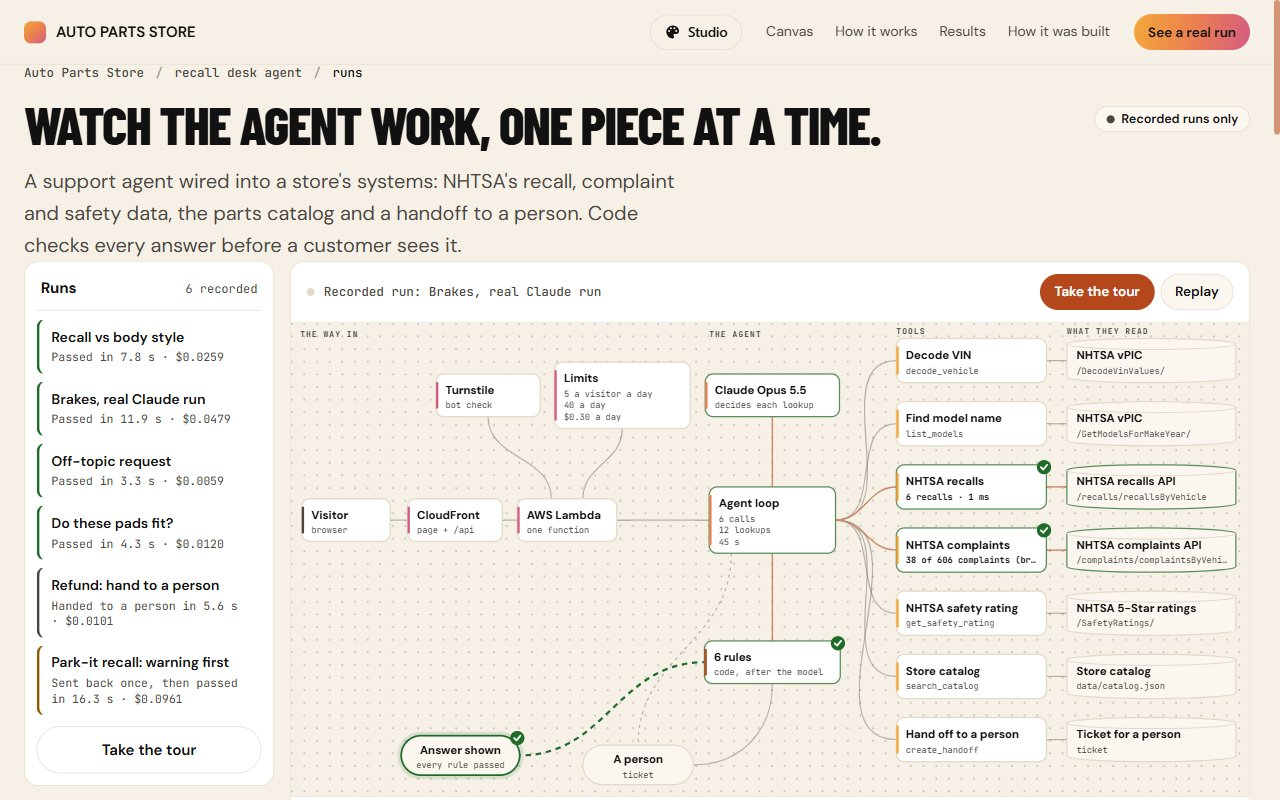
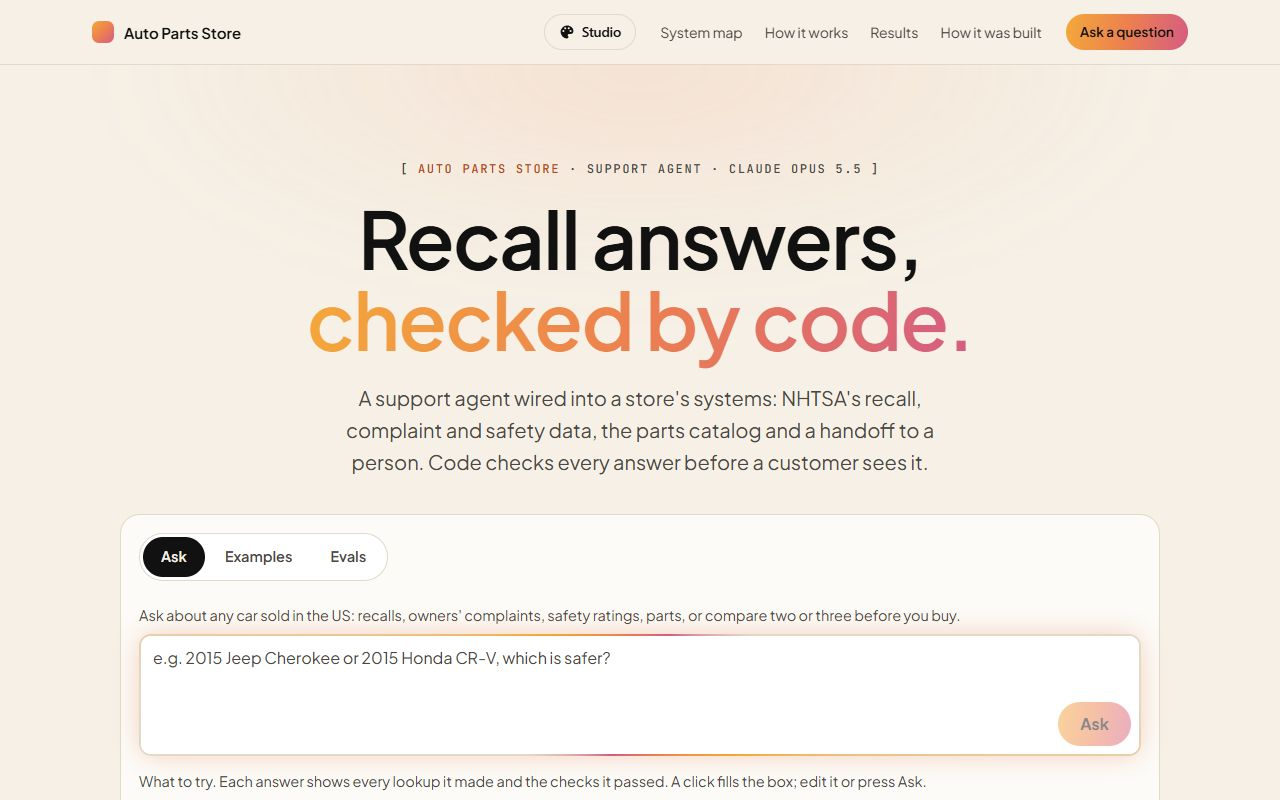
docs(readme): show the new default look and the Ask button in its box
The default became layout 01, Ask anything, on Golden hour on paper with
Plus Jakarta Sans + IBM Plex Mono, and the Ask button moved inside the
question box. The README still described and pictured layout 10 as the
default.

- The intro sentence, the hero picture and its alt text, and the Studio
  notes now name the new default.
- The 01 pair in the design table is taken from the live bare address,
  so it shows the default look; the note under the table says so. The
  other pairs still come from ?layout= links.
- docs/img/layouts: default-1280.jpeg and layout-01-1280.jpeg are the
  same 1280 x 800 capture; layout-01.jpeg is the 390 x 844 one. Both
  read Plus Jakarta Sans and neither scrolls sideways (n=2).

diff --git a/README.md b/README.md
@@ -18,10 +18,10 @@ questions each on Claude Haiku 5.5, Sonnet 5.5 and Opus 5.5, passed 44, 46 and 5
 **A system map, and a customizable page.** Every layout shows the whole system as one map that lights up, piece by
 piece, as a recorded or live answer plays, with a 16-step tour of the run where the safety rule sent the first
 answer back. The demo comes in 12 layouts, 21 colour sets and 15 typefaces, with the same answers and numbers in
-all of them; the default is layout 10, Run canvas. The **Studio** button lets a visitor pick a look, and the pick
+all of them; the default is layout 01, Ask anything. The **Studio** button lets a visitor pick a look, and the pick
 is saved in their browser for the next visit. See [Design](#design-on-the-web-and-on-a-phone).
 
-<a href="https://recall-desk.mniznik.com"><img alt="The default look, layout 10 Run canvas, at 1280 pixels: the recorded runs in a rail on the left, the system map lit for the brakes run, with each tool and the NHTSA endpoint it reads." src="docs/img/layouts/default-1280.jpeg" width="760"></a>
+<a href="https://recall-desk.mniznik.com"><img alt="The default look, layout 01 Ask anything, at 1280 pixels: the headline, then the desk with its Ask, Examples and Evals tabs and the question box with the Ask button inside it." src="docs/img/layouts/default-1280.jpeg" width="760"></a>
 
 ## Why build it this way
 
@@ -459,7 +459,7 @@ layout (`?layout=NN`) on the live site.
 <td><a href="https://recall-desk.mniznik.com/?layout=01"><img alt="Layout 01, Ask anything, on the web at 1280 pixels" src="docs/img/layouts/layout-01-1280.jpeg" width="600"></a></td>
 <td align="center"><a href="https://recall-desk.mniznik.com/?layout=01"><img alt="Layout 01, Ask anything, on a phone at 390 pixels" src="docs/img/layouts/layout-01.jpeg" width="200"></a></td>
 </tr>
-<tr><td colspan="2"><b>01 Ask anything</b>. The chat up front, each answer with its trace right under it, then a field of dots that shows one real run.</td></tr>
+<tr><td colspan="2"><b>01 Ask anything</b> (the default layout, shown in the default look). The chat up front, each answer with its trace right under it, then a field of dots that shows one real run.</td></tr>
 <tr>
 <td><a href="https://recall-desk.mniznik.com/?layout=04"><img alt="Layout 04, Under the hood, on the web at 1280 pixels" src="docs/img/layouts/layout-04-1280.jpeg" width="600"></a></td>
 <td align="center"><a href="https://recall-desk.mniznik.com/?layout=04"><img alt="Layout 04, Under the hood, on a phone at 390 pixels" src="docs/img/layouts/layout-04.jpeg" width="200"></a></td>
@@ -494,7 +494,7 @@ layout (`?layout=NN`) on the live site.
 <td><a href="https://recall-desk.mniznik.com/?layout=10"><img alt="Layout 10, Run canvas, on the web at 1280 pixels" src="docs/img/layouts/layout-10-1280.jpeg" width="600"></a></td>
 <td align="center"><a href="https://recall-desk.mniznik.com/?layout=10"><img alt="Layout 10, Run canvas, on a phone at 390 pixels" src="docs/img/layouts/layout-10.jpeg" width="200"></a></td>
 </tr>
-<tr><td colspan="2"><b>10 Run canvas</b> (the default layout). A workflow canvas: the recorded runs in a rail, the system map in the middle lighting up step by step, the desk as its log panel.</td></tr>
+<tr><td colspan="2"><b>10 Run canvas</b>. A workflow canvas: the recorded runs in a rail, the system map in the middle lighting up step by step, the desk as its log panel.</td></tr>
 <tr>
 <td><a href="https://recall-desk.mniznik.com/?layout=11"><img alt="Layout 11, Trace waterfall, on the web at 1280 pixels" src="docs/img/layouts/layout-11-1280.jpeg" width="600"></a></td>
 <td align="center"><a href="https://recall-desk.mniznik.com/?layout=11"><img alt="Layout 11, Trace waterfall, on a phone at 390 pixels" src="docs/img/layouts/layout-11.jpeg" width="200"></a></td>
@@ -525,8 +525,9 @@ layout (`?layout=NN`) on the live site.
 The web pictures are 1280 by 800 captures of the live site on 2026-11-14, where the desk opens on Ask. The phone
 pictures are 390 by 844 captures of the production build served locally with `vite preview` the same day; with
 no server behind that copy, live answers are off and the desk opens on the Examples, as it does whenever live
-answers are off. A `?layout=` link shows each layout in its own colours and type, so layout 10 is dark here, while
-the default look at the top of this page puts it on paper.
+answers are off. The 01 pair is the exception: both are from the live site's bare address on 2026-11-15, so they
+show the default look. Every other pair comes from a `?layout=` link, which shows a layout in its own colours and
+type.
 
 **The desk** is the same in every layout ([web/src/App.tsx](web/src/App.tsx)), with three tabs:
 
@@ -561,8 +562,8 @@ the page has no analytics or visit events.
 **How the page is put together** ([web/src/](web/src/)):
 
 - [studio/presets.ts](web/src/studio/presets.ts) holds the 12 layouts, 21 colour sets, 15 typefaces and the
-  default: layout 10, Run canvas, in "Golden hour on paper" with Barlow Condensed caps and DM Sans, chosen
-  on 2026-11-14.
+  default: layout 01, Ask anything, in "Golden hour on paper" with Plus Jakarta Sans and IBM Plex Mono,
+  chosen on 2026-11-15.
 - Before anything else, an inline script from [studio/boot.ts](web/src/studio/boot.ts) paints the background of the
   look about to show, so a dark look does not flash white, and keeps the page hidden until it has rendered, or
   6 seconds at most.
